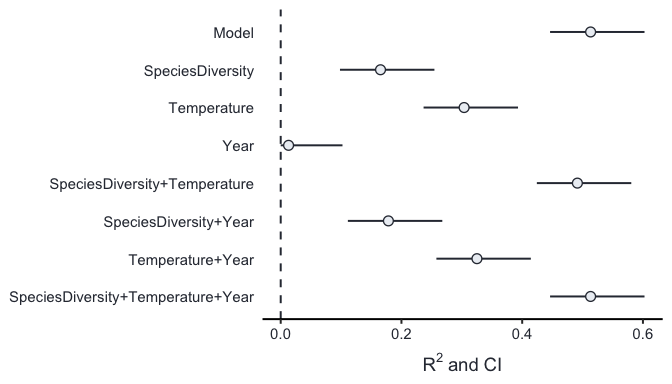
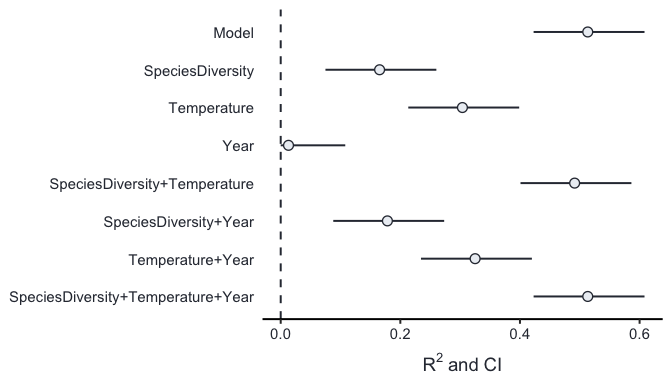
coverage

diff --git a/README.md b/README.md
@@ -1,8 +1,13 @@
 
+<!-- badges: start -->
+
 ![Build
 Status](https://travis-ci.org/mastoffel/partR2.svg?branch=master)
 [![Lifecycle:
 maturing](https://img.shields.io/badge/lifecycle-maturing-blue.svg)](https://www.tidyverse.org/lifecycle/#maturing)
+[![Codecov test
+coverage](https://codecov.io/gh/mastoffel/partR2/branch/master/graph/badge.svg)](https://codecov.io/gh/mastoffel/partR2?branch=master)
+<!-- badges: end -->
 <!-- README.md is generated from README.Rmd. Please edit that file -->
 
 # partR2
@@ -59,21 +64,25 @@ mod <- lmer(Biomass ~  Year + Temperature + SpeciesDiversity + (1|Population),
 #> 
 #> 
 #> R2 (marginal) and 95% CI for the full model: 
-#>  R2     CI_lower CI_upper nboot ndf
-#>  0.5133 0.4462   0.6026   100   4  
+#> # A tibble: 1 x 5
+#>      R2 CI_lower CI_upper nboot   ndf
+#>   <dbl>    <dbl>    <dbl> <int> <dbl>
+#> 1 0.513    0.423    0.608   100     4
 #> 
 #> ----------
 #> 
 #> Part (semi-partial) R2:
-#>  Predictor(s)                      R2     CI_lower CI_upper nboot ndf
-#>  Model                             0.5133 0.4462   0.6026   100   4  
-#>  SpeciesDiversity                  0.1653 0.0982   0.2546   100   3  
-#>  Temperature                       0.3038 0.2367   0.3931   100   3  
-#>  Year                              0.0130 0.0000   0.1023   100   3  
-#>  SpeciesDiversity+Temperature      0.4914 0.4243   0.5807   100   2  
-#>  SpeciesDiversity+Year             0.1784 0.1112   0.2677   100   2  
-#>  Temperature+Year                  0.3250 0.2579   0.4143   100   2  
-#>  SpeciesDiversity+Temperature+Year 0.5133 0.4462   0.6026   100   1
+#> # A tibble: 8 x 6
+#>   `Predictor(s)`                       R2 CI_lower CI_upper nboot   ndf
+#>   <chr>                             <dbl>    <dbl>    <dbl> <int> <dbl>
+#> 1 Model                             0.513   0.423     0.608   100     4
+#> 2 SpeciesDiversity                  0.165   0.0748    0.260   100     3
+#> 3 Temperature                       0.304   0.213     0.399   100     3
+#> 4 Year                              0.013   0         0.108   100     3
+#> 5 SpeciesDiversity+Temperature      0.491   0.401     0.586   100     2
+#> 6 SpeciesDiversity+Year             0.178   0.0879    0.273   100     2
+#> 7 Temperature+Year                  0.325   0.234     0.420   100     2
+#> 8 SpeciesDiversity+Temperature+Year 0.513   0.423     0.608   100     1
 ```
 
 And to plot the results:
